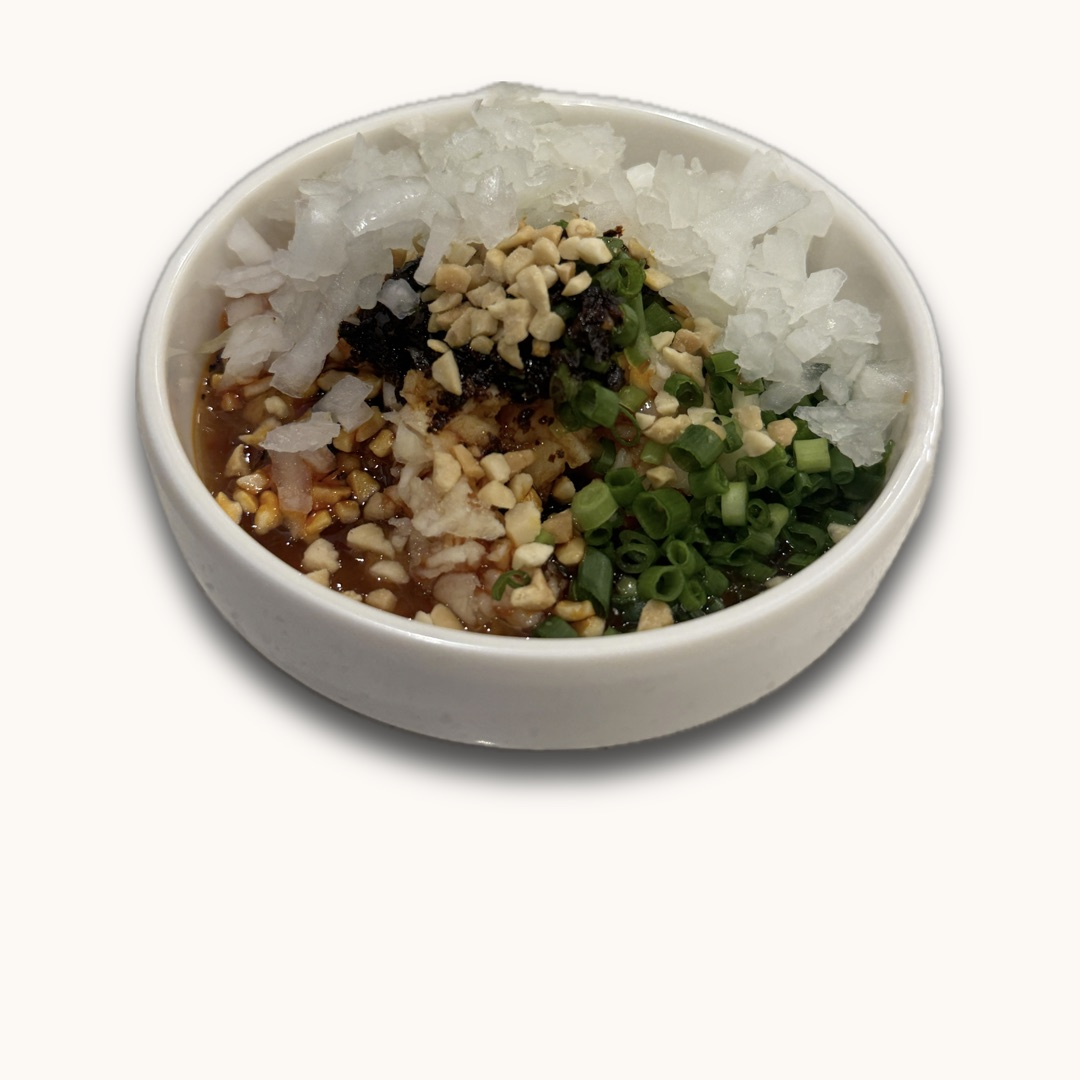
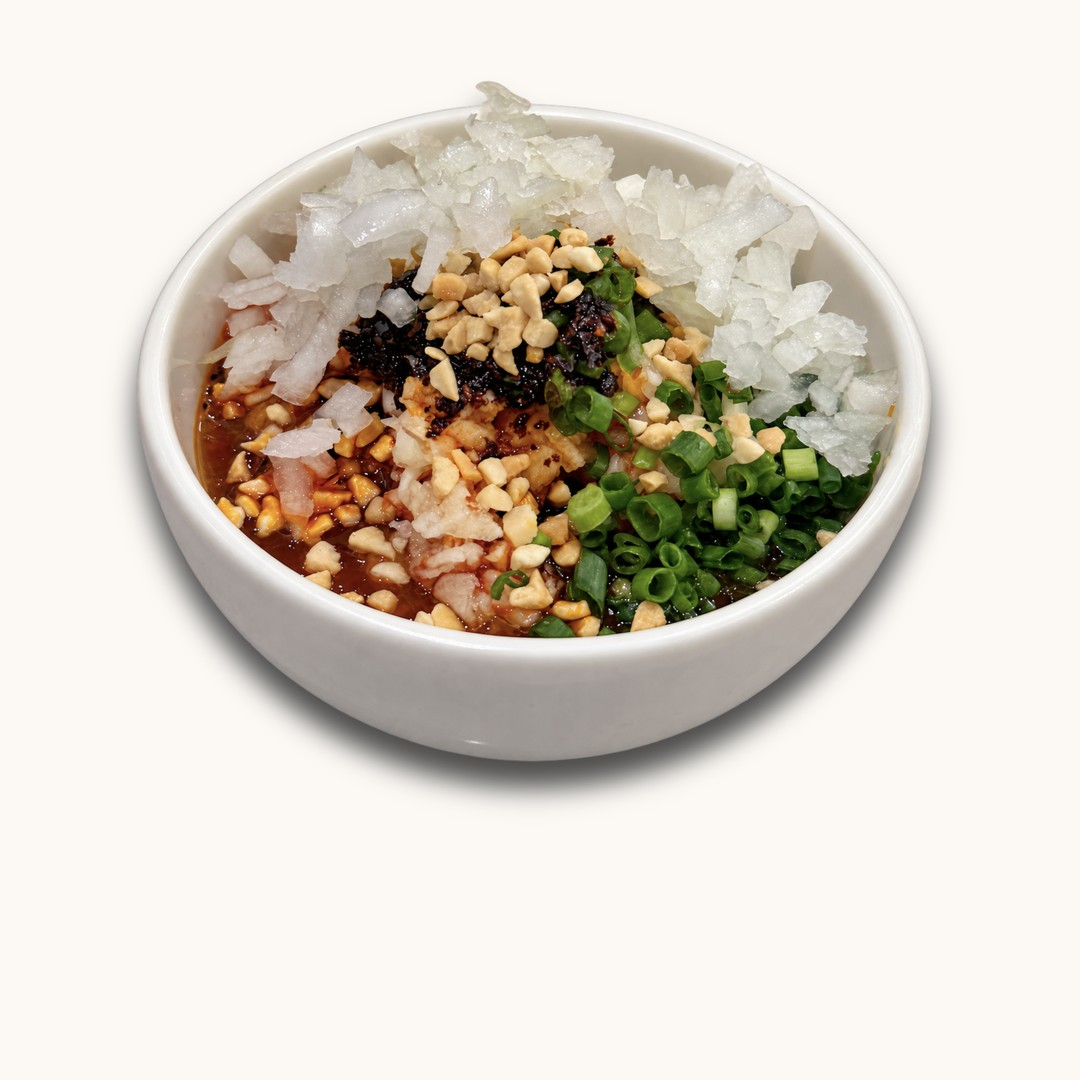
이달의 소스 배너(화령소스)를 새 그림으로 바꾼다
- s4.jpg: 사용자님이 만든 새 판(4000×4000 PNG)을 1080×1080 JPG 로. 종지가 조금 크고 더 또렷하다.
- script.js heroImg ?v= 2 → 3, index.html 의 script.js 캐시 962 → 963.
- 원본 PNG 는 data/monthly-sauce/2026.09/화령소스-20260910.png 에 보관.

Changed region(s): [[0.1222, 0.0611, 0.8861, 0.7639]]

diff --git a/script.js b/script.js
@@ -330,7 +330,7 @@
       ings: [['소금', '3', '스푼'], ['참기름', '3', '스푼'], ['고추기름', '0.5', '스푼'], ['다진 마늘', '1', '스푼'], ['참깨', '1', '스푼'], ['마라시즈닝(고춧가루)', '1', '스푼']],
       steps: [],
       tip: '' },
-    { id: 's4', date: '2026-01-27', cat: '소스', emoji: '🥣', img: 'assets/cards/화령소스.jpg?v=2', imgFit: 'cover', tint: 'linear-gradient(160deg,#F5E1C8,#E8C79A)', heroDesc: '이것은 소스인가 맥주 안주인가', heroImg: 'assets/monthly-sauce/s4.jpg?v=2', name: '화령소스', source: '네이버블로그 sjsilver23', person: '화령', desc: '하이디라오 부산역점 직원이 네이버 블로거인 <b>지금이네(sjsilver23)</b>에게 가져다준 소스로, 너무 맛있어서 레시피를 손민수했다고 한다.',
+    { id: 's4', date: '2026-01-27', cat: '소스', emoji: '🥣', img: 'assets/cards/화령소스.jpg?v=2', imgFit: 'cover', tint: 'linear-gradient(160deg,#F5E1C8,#E8C79A)', heroDesc: '이것은 소스인가 맥주 안주인가', heroImg: 'assets/monthly-sauce/s4.jpg?v=3', name: '화령소스', source: '네이버블로그 sjsilver23', person: '화령', desc: '하이디라오 부산역점 직원이 네이버 블로거인 <b>지금이네(sjsilver23)</b>에게 가져다준 소스로, 너무 맛있어서 레시피를 손민수했다고 한다.',
       ings: [['땅콩참깨소스', '0.25', '스푼'], ['스위트칠리소스', '3.5~4', '스푼'], ['튀긴대두', '2~3', '스푼'], ['참기름', '0.5', '스푼'], ['고추기름', '0.5', '스푼'], ['양파', '3', '스푼'], ['다진 파', '3', '스푼'], ['다진 마늘', '1', '스푼']],
       steps: [],
       tip: '튀긴대두, 다진 마늘, 다진 파, 양파는 많으면 많을수록 맛있음' },

diff --git a/index.html b/index.html
@@ -1571,7 +1571,7 @@
 
 <!-- 메뉴 데이터 — `node .claude/make_menu_data.mjs`가 메뉴.md 에서 자동 생성한다. 손으로 고치지 말 것 -->
 <script src="menu-data.js?v=8"></script>
-<script src="script.js?v=962"></script>
+<script src="script.js?v=963"></script>
 
 <!-- Cloudflare Web Analytics --><script type='module' src='https://static.cloudflareinsights.com/beacon.min.js' data-cf-beacon='{"token": "d7c0ac8f66544156bca23d2c7f84c961"}'></script><!-- End Cloudflare Web Analytics -->
 </body>
